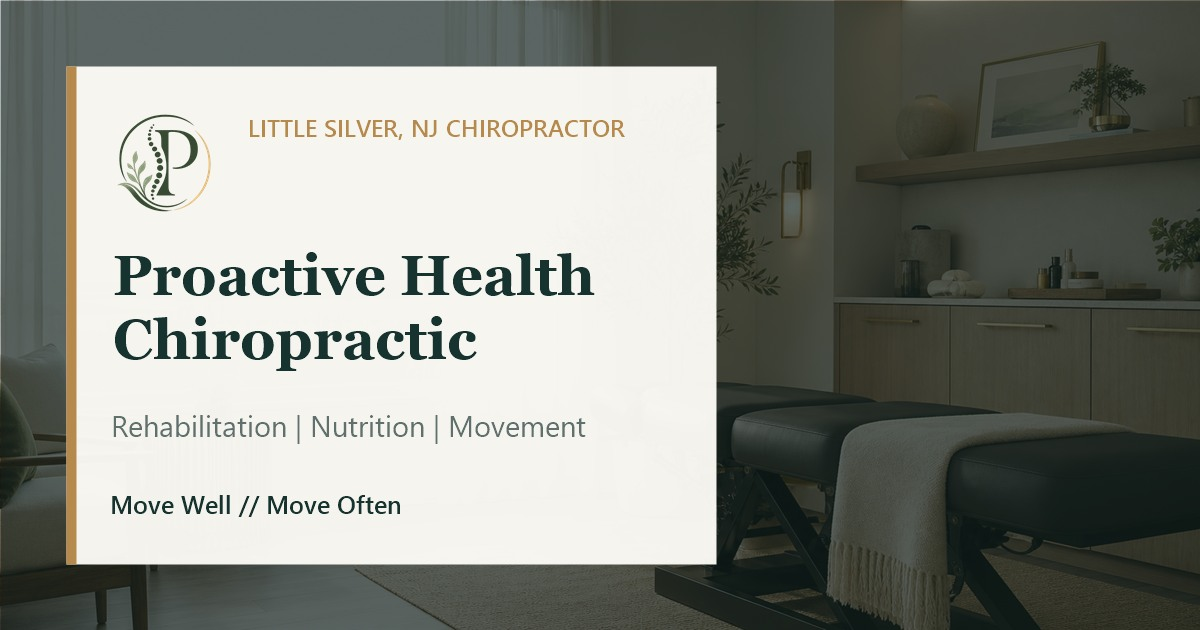
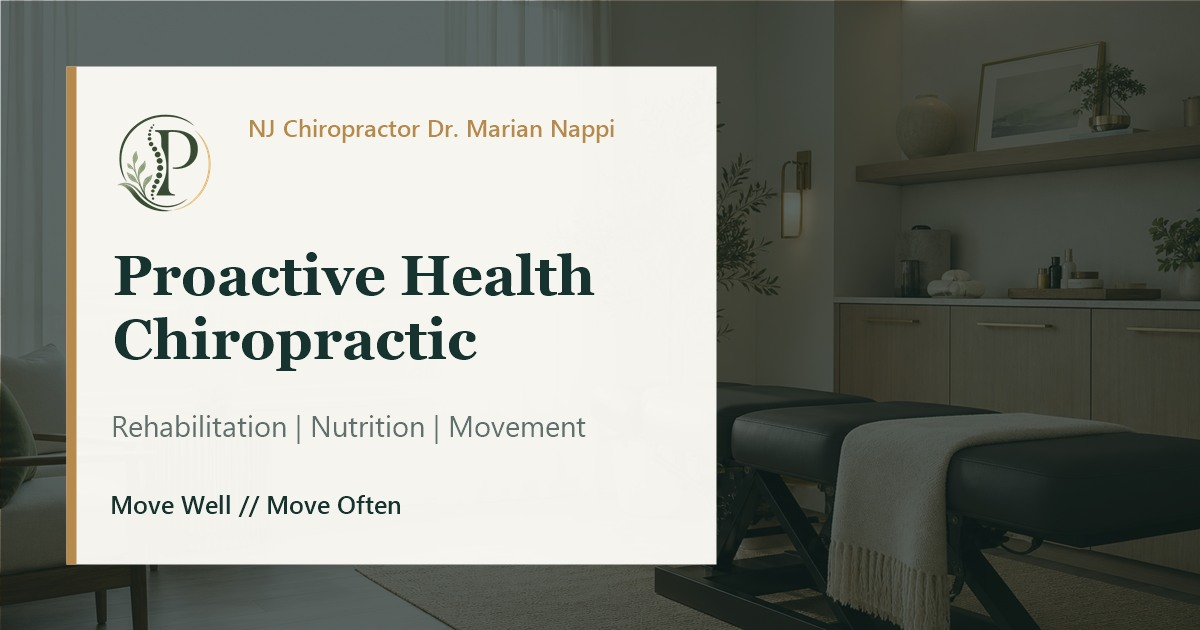
Update iOS preview doctor title

Changed region(s): [[0.2158, 0.181, 0.5242, 0.2413]]

diff --git a/index.html b/index.html
@@ -3,7 +3,7 @@
   <head>
     <meta charset="utf-8" />
     <meta name="viewport" content="width=device-width, initial-scale=1" />
-    <title>Proactive Health Chiropractic | Little Silver, NJ Chiropractor</title>
+    <title>NJ Chiropractor Dr. Marian Nappi | Proactive Health Chiropractic</title>
     <meta
       name="description"
       content="Proactive Health Chiropractic in Little Silver, NJ, led by Dr. Marian Nappi, D.C., offers movement-focused chiropractic care across rehabilitation, nutrition, spinal health, and whole-body wellness."
@@ -12,7 +12,7 @@
     <link rel="canonical" href="https://proactivehealthchiropractic.com/" />
     <meta property="og:type" content="website" />
     <meta property="og:site_name" content="Proactive Health Chiropractic" />
-    <meta property="og:title" content="Proactive Health Chiropractic | Little Silver, NJ Chiropractor" />
+    <meta property="og:title" content="NJ Chiropractor Dr. Marian Nappi | Proactive Health Chiropractic" />
     <meta
       property="og:description"
       content="Movement-focused chiropractic care in Little Silver, NJ with Dr. Marian Nappi, D.C."
@@ -25,7 +25,7 @@
     <meta property="og:image:height" content="630" />
     <meta property="og:image:alt" content="Proactive Health Chiropractic in Little Silver, NJ" />
     <meta name="twitter:card" content="summary_large_image" />
-    <meta name="twitter:title" content="Proactive Health Chiropractic | Little Silver, NJ Chiropractor" />
+    <meta name="twitter:title" content="NJ Chiropractor Dr. Marian Nappi | Proactive Health Chiropractic" />
     <meta
       name="twitter:description"
       content="Movement-focused chiropractic care in Little Silver, NJ with Dr. Marian Nappi, D.C."
